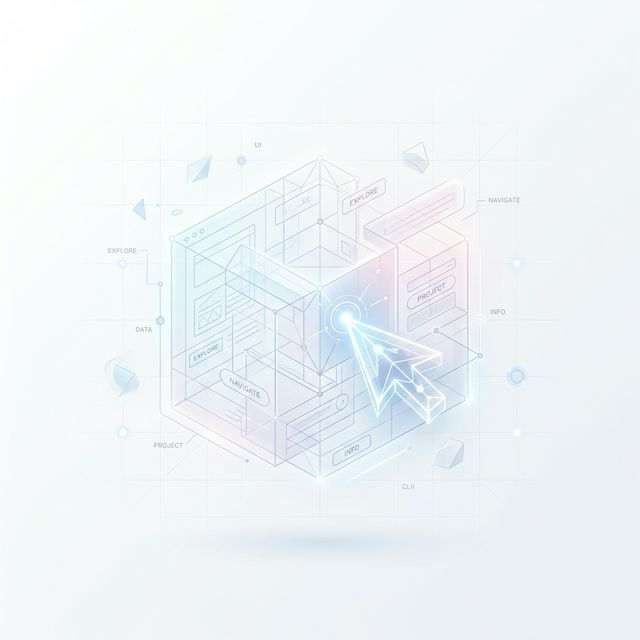
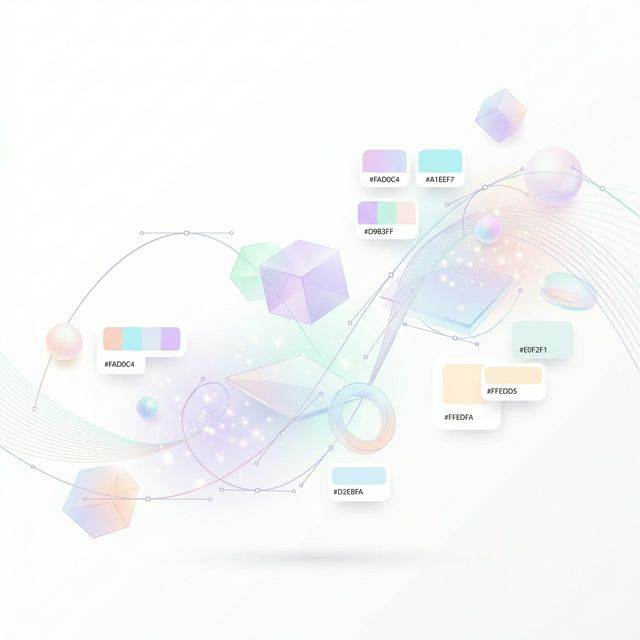
style(18-01): update analyze graphic and text copy to focus on graphic design instead of UI/UX

diff --git a/app/src/screens/HomeScreen.tsx b/app/src/screens/HomeScreen.tsx
@@ -166,8 +166,8 @@ export default function HomeScreen() {
             {/* Main Section: Feature Hero Blocks */}
             <div className="flex flex-col gap-24 lg:gap-32 pb-20">
                 <FeatureHeroBlock
-                    title={<>Decode the DNA of any <em className="font-logo font-normal italic text-accent opacity-90 pr-1">interface</em></>}
-                    description="Upload any design—from t-shirts to landing pages—and let our AI analyze the core visual layout, styling, and buyer psychological triggers that make it work."
+                    title={<>Decode the DNA of any <em className="font-logo font-normal italic text-accent opacity-90 pr-1 px-1">graphic</em></>}
+                    description="Upload any print-on-demand artwork or illustration and let our AI analyze the core visual composition, typography, and color palettes that make it successful."
                     ctaText="Analyze Design"
                     ctaRoute="/analyze/new"
                     ctaVariant="primary"
